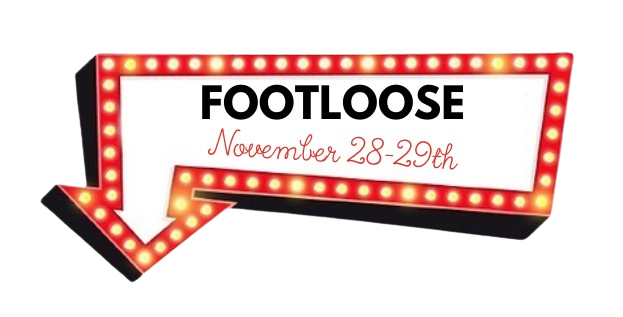
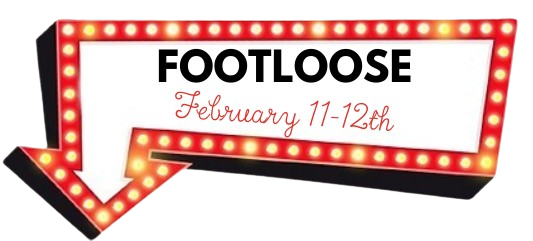
show posters + need to fix arrows

diff --git a/index.html b/index.html
@@ -24,27 +24,47 @@
     <p class="title-p">Welcome to the site of the most prestigious Drama Program in Ottawa</p>
   </div>
 
-  <h2>Upcoming Event</h2>
-  <div class="card-container">
-    <div class="card-inner">
-
-      <div class="front-card">
-         <img src="./images/our town poster.png">
+  <h2>Upcoming Events</h2>
+  <div id="upcoming-shows">
+    <div class="card-container">
+      <div class="card-inner">
+  
+        <div class="front-card">
+           <img src="./images/our town poster.png">
+        </div>
+        <div class="back-card">
+          <p>Small town girl Emily Webb has never known anything but the traditions and expectations of early 1900’s Grover’s Corners, New Hampshire. Along with everyone else in the town, she will learn the troubles of life, love, and death through experience.</p>
+        </div>
       </div>
-      <div class="back-card">
-        <p>Small town girl Emily Webb has never known anything but the traditions and expectations of early 1900’s Grover’s Corners, New Hampshire. Along with everyone else in the town, she will learn the troubles of life, love, and death through experience.</p>
+      <p class="dates">November 28-29th</p>
+    </div>
+  
+    <div class="card-container">
+      <div class="card-inner">
+  
+        <div class="front-card">
+           <img src="./images/Footloose Poster.jpg">
+        </div>
+        <div class="back-card">
+          <p>Small town girl Emily Webb has never known anything but the traditions and expectations of early 1900’s Grover’s Corners, New Hampshire. Along with everyone else in the town, she will learn the troubles of life, love, and death through experience.</p>
+        </div>
       </div>
+      <p class="dates">February 11-12th</p>
+    </div>
+  
+    <div class="card-container">
+      <div class="card-inner">
+  
+        <div class="front-card">
+           <img src="./images/Matilda-.jpg">
+        </div>
+        <div class="back-card">
+          <p>Small town girl Emily Webb has never known anything but the traditions and expectations of early 1900’s Grover’s Corners, New Hampshire. Along with everyone else in the town, she will learn the troubles of life, love, and death through experience.</p>
+        </div>
+      </div>
+      <p class="dates">Coming Soon...</p>
     </div>
   </div>
-  
-  <div class="info">
-    <h3>Our Town</h3>
-    <p>Meridian Theatres @ Centrepointe</p>
-    <p>101 Centrepointe Dr</p>
-    <p>Ottawa, ON K2G 5K7</p>
-    <p>613-580-2700 - meridiancentrepointe@ottawa.ca</p>
-  </div>
-
 
 </body>
 </html>

diff --git a/html/upcoming.html b/html/upcoming.html
@@ -29,21 +29,6 @@
 
   <hr>
 
-  <div class="cast">
-    <h3>Cast</h3>
-    <div class="cast-member">
-        <img src="../images/Headshot Template.png" alt="">
-        <p>Sed ut perspiciatis unde omnis iste natus error sit voluptatem accusantium doloremque laudantium, totam rem aperiam, eaque ipsa quae ab illo inventore veritatis et quasi architecto beatae vitae dicta sunt explicabo. Nemo enim ipsam voluptatem quia voluptas sit aspernatur aut odit aut fugit, sed quia consequuntur magni dolores eos qui ratione voluptatem sequi nesciunt. Neque porro quisquam est, qui dolorem ipsum quia dolor sit amet, consectetur, adipisci velit, sed quia non numquam eius modi tempora incidunt ut labore et dolore magnam aliquam quaerat voluptatem. Ut enim ad minima veniam, quis nostrum </p>
-    </div>
-    <div class="cast-member">
-        <img src="../images/Headshot Template.png" alt="">
-        <p>Sed ut perspiciatis unde omnis iste natus error sit voluptatem accusantium doloremque laudantium, totam rem aperiam, eaque ipsa quae ab illo inventore veritatis et quasi architecto beatae vitae dicta sunt explicabo. Nemo enim ipsam voluptatem quia voluptas sit aspernatur aut odit aut fugit, sed quia consequuntur magni dolores eos qui ratione voluptatem sequi nesciunt. Neque porro quisquam est, qui dolorem ipsum quia dolor sit amet, consectetur, adipisci velit, sed quia non numquam eius modi tempora incidunt ut labore et dolore magnam aliquam quaerat voluptatem. Ut enim ad minima veniam, quis nostrum </p>
-    </div>
-    <div class="cast-member">
-        <img src="../images/Headshot Template.png" alt="">
-        <p>Sed ut perspiciatis unde omnis iste natus error sit voluptatem accusantium doloremque laudantium, totam rem aperiam, eaque ipsa quae ab illo inventore veritatis et quasi architecto beatae vitae dicta sunt explicabo. Nemo enim ipsam voluptatem quia voluptas sit aspernatur aut odit aut fugit, sed quia consequuntur magni dolores eos qui ratione voluptatem sequi nesciunt. Neque porro quisquam est, qui dolorem ipsum quia dolor sit amet, consectetur, adipisci velit, sed quia non numquam eius modi tempora incidunt ut labore et dolore magnam aliquam quaerat voluptatem. Ut enim ad minima veniam, quis nostrum </p>
-    </div>
-  </div>
 
 </body>
 </html>

diff --git a/css/style.css b/css/style.css
@@ -71,9 +71,11 @@ html, body {
 h2 {
     display: flex;
     background-color: #343464;
+    padding: 1%;
+    padding-top: 2.5%;
     margin-bottom: 0;
     justify-content: center;
-    width: 100%;
+    font-size: 30px;
 }
 
 .card-container {
@@ -81,6 +83,7 @@ h2 {
   width: 347px;
   height: 365px;
   perspective: 1000px;
+  padding: 2.5%;
 }
 
 .card-inner {
@@ -107,22 +110,34 @@ h2 {
 .front-card img {
     width: 340px;
     height: 365px;
-    border-radius: 100%;
 }
 
 .back-card {
     display: flex;
     align-items: center;
-    border: none;
-    border-radius: 100%;
-    background-color: #343464;
+    border: 2px solid white;
+    background-color: #ffffff;
     transform: rotateY(180deg);
 }
 
 .back-card p {
     font-size: 20px;
+    color: #343464;
 }
 
+#upcoming-shows {
+    display: flex;
+    background-color: #343464;
+    justify-content: center;
+    padding-bottom: 2.5%
+    
+}
+
+.dates {
+    display: flex;
+    justify-content: center;
+    font-size: 20px;
+}
 /*
 .card {
     display: flex;

diff --git a/css/upcomingStyle.css b/css/upcomingStyle.css
@@ -12,31 +12,6 @@ hr {
     justify-content: center;
 }
 
-.cast {
-    max-width: fit-content;
-    margin-left: auto;
-    margin-right: auto;
-    width: 55%;
-}
-
-.cast-member {
-    display: flex;
-    padding-top: 2%;
-    padding-bottom: 2%;
-}
-
-.cast-member p {
-    padding-left: 2%;
-    font-size: 20px;
-    text-align: justify;
-    text-justify: inter-word;
-}
-
-.cast-member img {
-    width: 25%;
-    height: 25%;
-}
-
 #upcoming-title {
     background-color: #721404;
     width: 100%;
